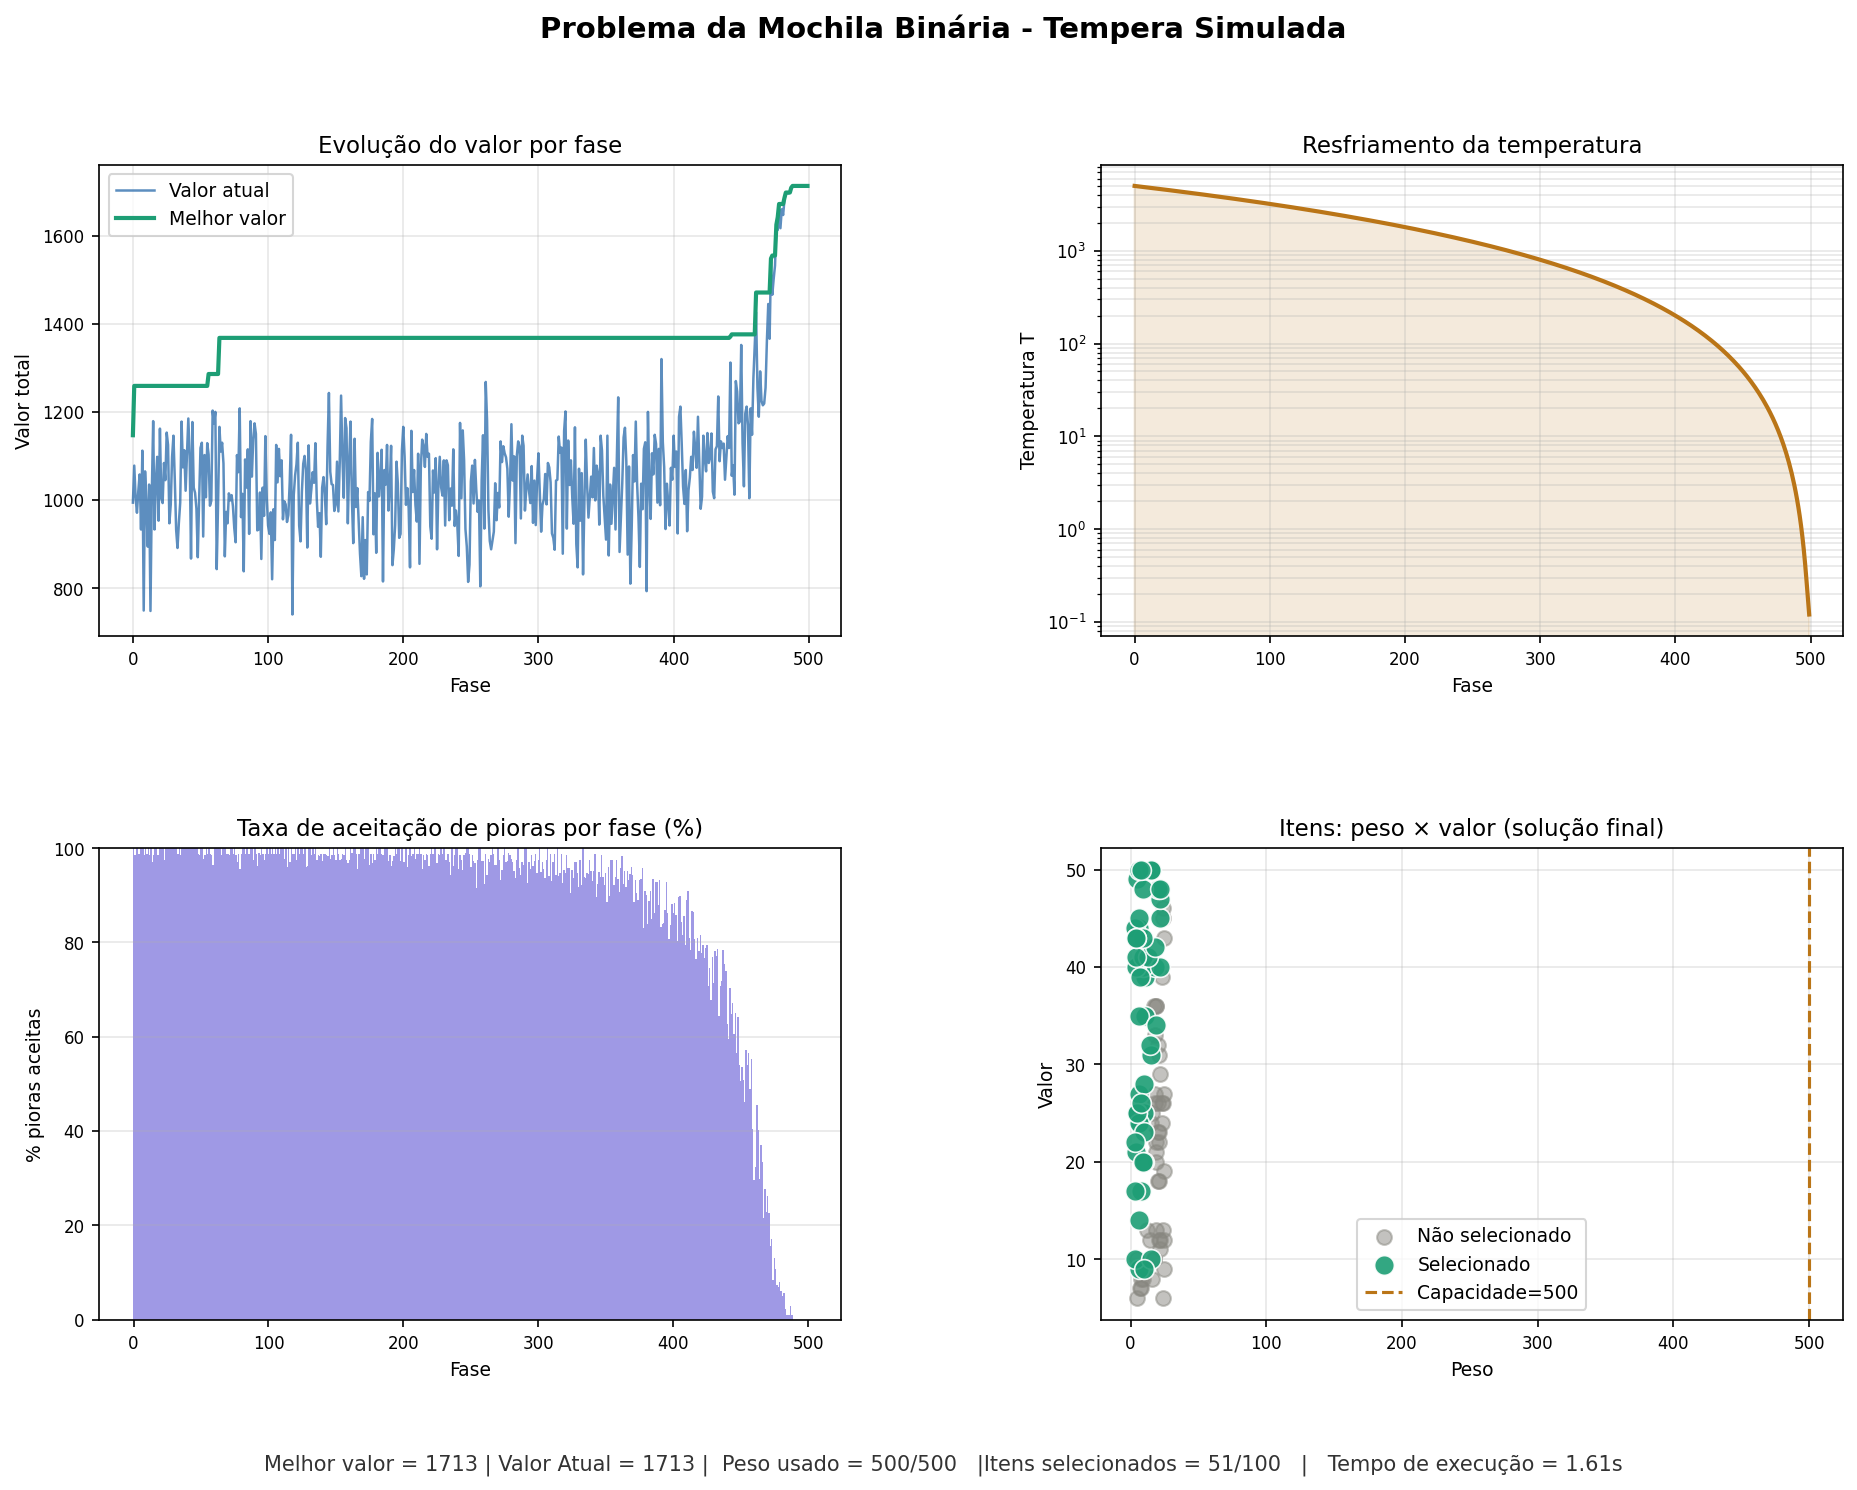
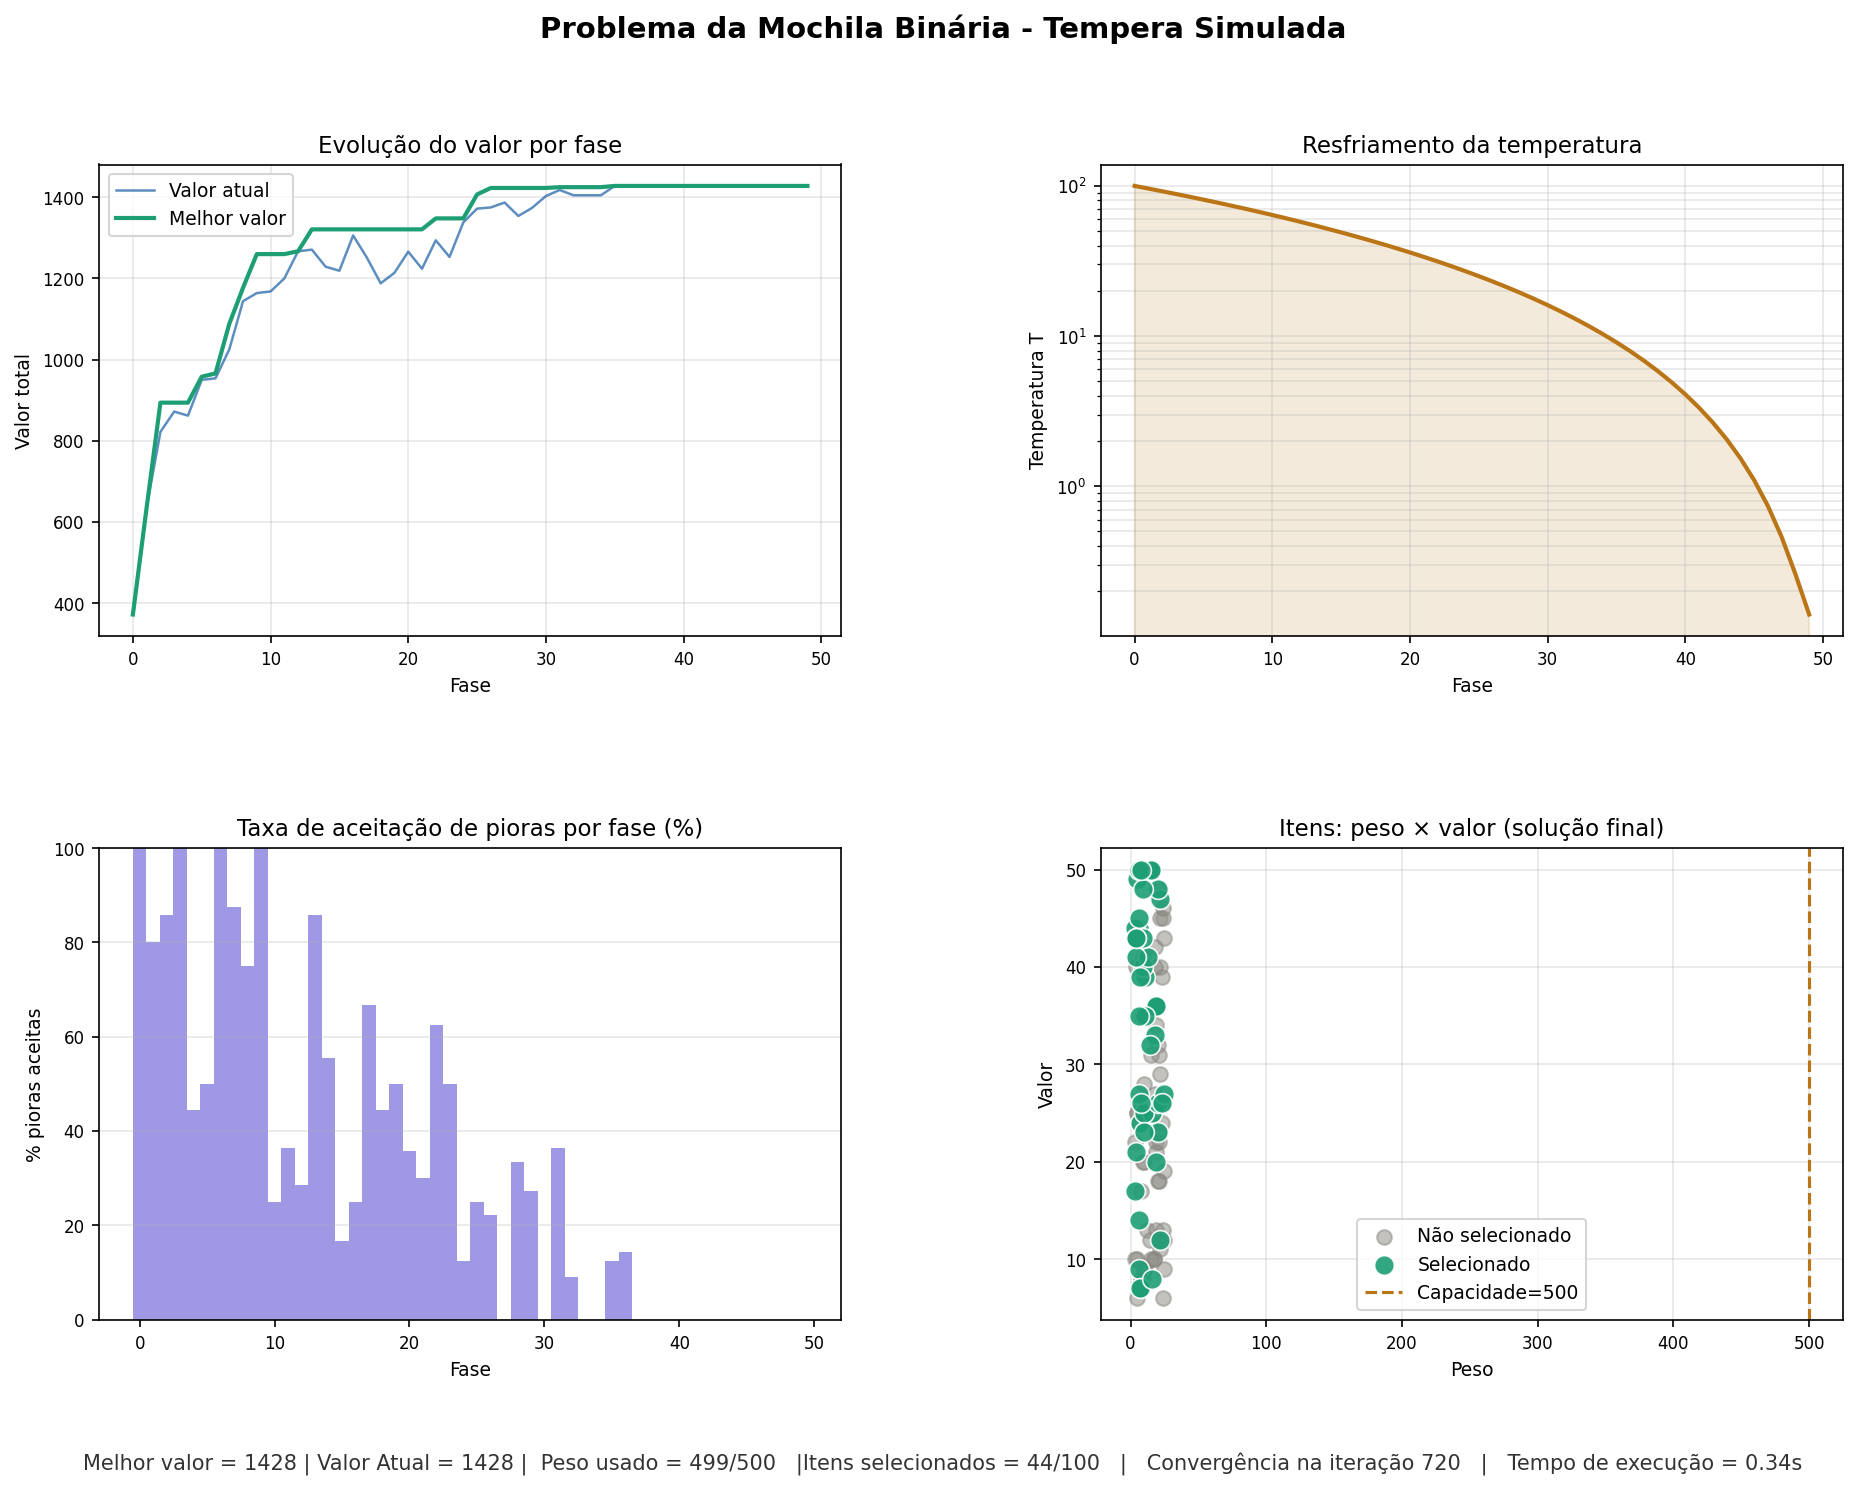
Iteração de convergencia

diff --git a/TemperaSimulada.py b/TemperaSimulada.py
@@ -229,10 +229,28 @@ def plotar(historico, itens, melhor, capacidade, tempo_inicio=None):
     aux = len(historico["val_atual"]) - 1
     val_atualfinal = historico['val_atual'][aux]
     val_final = valor_total(melhor, itens)
+    
+    # Encontra a iteração onde o melhor valor se estabiliza (deixa de variar)
+    melhor_val_historico = historico['melhor_val']
+    iteracao_convergencia = None
+    
+    # Percorre do final para o início para encontrar onde começou a ser constante
+    valor_estavel = melhor_val_historico[-1]
+    for i in range(len(melhor_val_historico) - 1, -1, -1):
+        if melhor_val_historico[i] != valor_estavel:
+            iteracao_convergencia = historico['iters'][i + 1]
+            break
+    
+    # Se nunca variou, começou constante desde o início
+    if iteracao_convergencia is None:
+        iteracao_convergencia = historico['iters'][0]
+    
     tempo_decorrido = f"   |   Tempo de execução = {time.time() - tempo_inicio:.2f}s" if tempo_inicio else ""
+    convergencia_texto = f"   |   Convergência na iteração {iteracao_convergencia}" if iteracao_convergencia else ""
+    
     fig.text(0.5, 0.01,
              f"Melhor valor = {val_final} | Valor Atual = {val_atualfinal} |  Peso usado = {peso_usado}/{capacidade}   |"
-             f"Itens selecionados = {sum(melhor)}/{len(itens)}{tempo_decorrido}",
+             f"Itens selecionados = {sum(melhor)}/{len(itens)}{convergencia_texto}{tempo_decorrido}",
              ha="center", fontsize=10, color="#333")
 
     plt.savefig("resultado_sa_knapsack.png", dpi=150, bbox_inches="tight")
